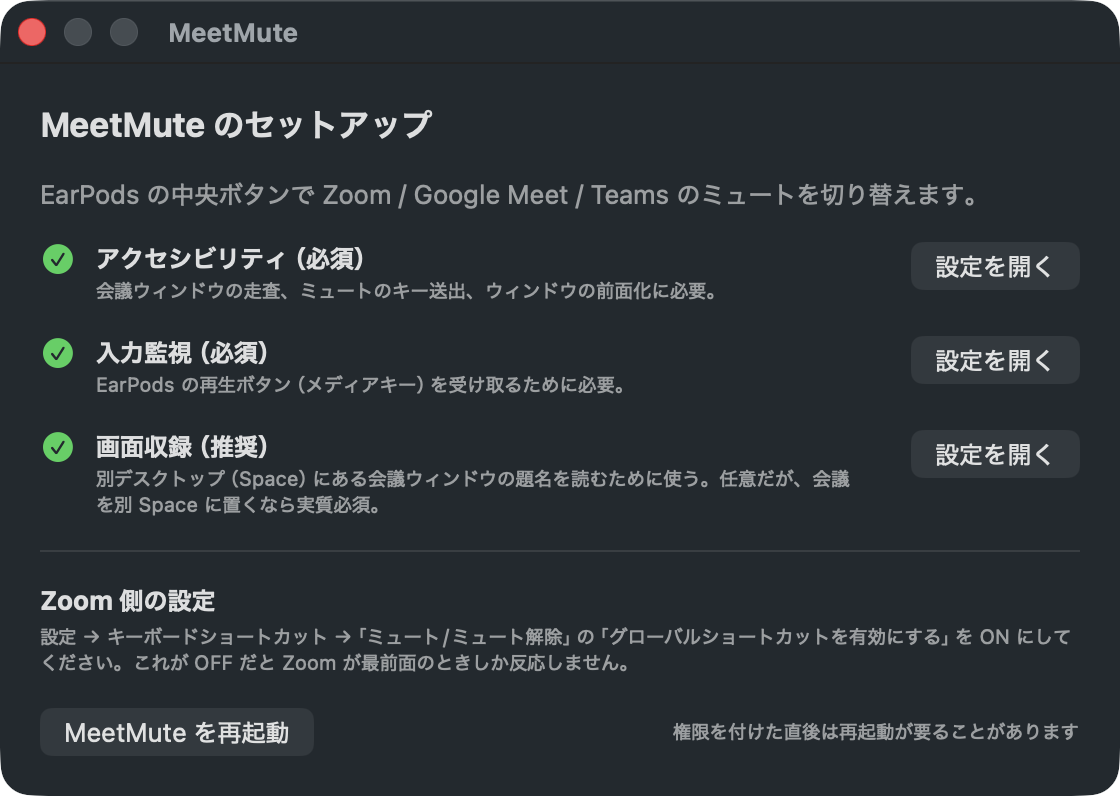
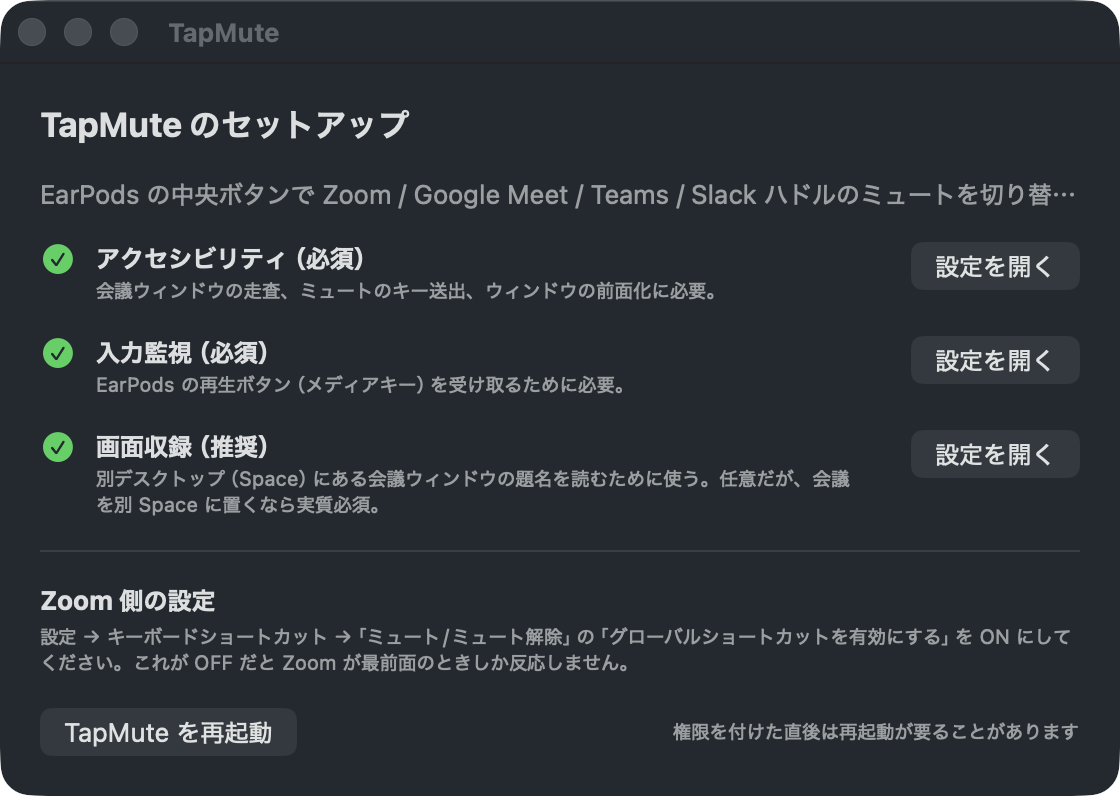
公開前の整理: スクリーンショットを撮り直し、Slack を案内文に追加
- docs のスクリーンショットが改名前のもの（タイトルバーが MeetMute）だったので撮り直した。
- どこからも参照していなかった settings-general.png を削除。
- オンボーディングと About の説明文に Slack ハドルを追加。対応したのに案内に出ていなかった。

diff --git a/Sources/AppDelegate.swift b/Sources/AppDelegate.swift
@@ -183,7 +183,8 @@ final class AppDelegate: NSObject, NSApplicationDelegate {
         let alert = NSAlert()
         alert.messageText = "TapMute"
         alert.informativeText = """
-            EarPods の中央ボタンで Zoom / Google Meet / Microsoft Teams のミュートを切り替えます。
+            EarPods の中央ボタンで Zoom / Google Meet / Microsoft Teams / Slack ハドルの
+            ミュートを切り替えます。
             会議が検出されていないときは、ボタンは通常どおり音楽の再生/停止として働きます。
             """
         alert.addButton(withTitle: "OK")

diff --git a/Sources/OnboardingWindow.swift b/Sources/OnboardingWindow.swift
@@ -32,7 +32,7 @@ struct OnboardingView: View {
     var body: some View {
         VStack(alignment: .leading, spacing: 16) {
             Text("TapMute のセットアップ").font(.title2).bold()
-            Text("EarPods の中央ボタンで Zoom / Google Meet / Teams のミュートを切り替えます。")
+            Text("EarPods の中央ボタンで Zoom / Google Meet / Teams / Slack ハドルのミュートを切り替えます。")
                 .foregroundColor(.secondary)
 
             ForEach(PermissionManager.Permission.allCases, id: \.self) { permission in
